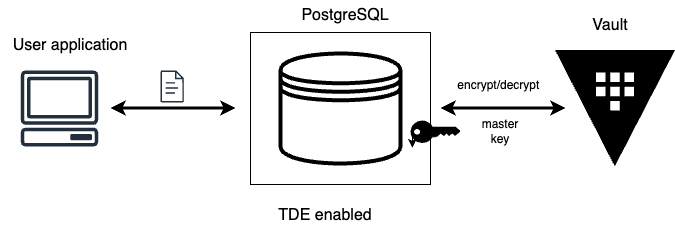
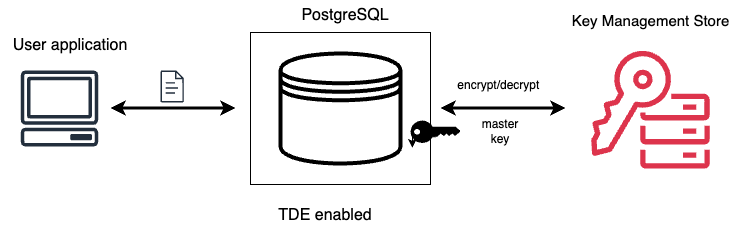
PG-1241 Documented KMIP integration and setup (#368)
PG-1241 Documented KMIP integration and setup

 modified:   documentation/docs/_images/tde-flow.png
        modified:   documentation/docs/setup.md
        modified:   documentation/docs/tde.md

diff --git a/documentation/docs/setup.md b/documentation/docs/setup.md
@@ -4,7 +4,7 @@
 
 Load the `pg_tde` at the start time. The extension requires additional shared memory; therefore,  add the `pg_tde` value for the `shared_preload_libraries` parameter and restart the `postgresql` instance.
 
-1. Use the [ALTER SYSTEM](https://www.postgresql.org/docs/current/sql-altersystem.html) command from `psql` terminal to modify the `shared_preload_libraries` parameter.
+1. Use the [ALTER SYSTEM](https://www.postgresql.org/docs/current/sql-altersystem.html) command from `psql` terminal to modify the `shared_preload_libraries` parameter. This requires superuser privileges. 
 
     ```
     ALTER SYSTEM SET shared_preload_libraries = 'pg_tde';
@@ -14,14 +14,14 @@ Load the `pg_tde` at the start time. The extension requires additional shared me
 
     * On Debian and Ubuntu:    
 
-       ```{.bash data-prompt="$"}
-       $ sudo systemctl restart postgresql.service
+       ```sh
+       sudo systemctl restart postgresql.service
        ```
     
     * On RHEL and derivatives
 
-       ```{.bash data-prompt="$"}
-       $ sudo systemctl restart postgresql-17
+       ```sh
+       sudo systemctl restart postgresql-17
        ```
 
 3. Create the extension using the [CREATE EXTENSION](https://www.postgresql.org/docs/current/sql-createextension.html) command. You must have the privileges of a superuser or a database owner to use this command. Connect to `psql` as a superuser for a database and run the following command:
@@ -36,7 +36,7 @@ Load the `pg_tde` at the start time. The extension requires additional shared me
 
         You can have the `pg_tde` extension automatically enabled for every newly created database. Modify the template `template1` database as follows: 
 
-        ```
+        ```sh
         psql -d template1 -c 'CREATE EXTENSION pg_tde;'
         ```
 
@@ -44,65 +44,95 @@ Load the `pg_tde` at the start time. The extension requires additional shared me
 
 1. Set up a key provider for the database where you have enabled the extension.
 
-    === "With HashiCorp Vault"
+    === "With KMIP server"
+
+        Make sure you have obtained the root certificate for the KMIP server and the keypair for the client. The client key needs permissions to create / read keys on the server. Find the [configuration guidelines for the HashiCorp Vault Enterprise KMIP Secrets Engine](https://developer.hashicorp.com/vault/tutorials/enterprise/kmip-engine).
+        
+        For testing purposes, you can use the PyKMIP server which enables you to set up required certificates. To use a real KMIP server, make sure to obtain the valid certificates issued by the key management appliance. 
+
+        ```
+        SELECT pg_tde_add_key_provider_kmip('provider-name','kmip-IP', 5696, '/path_to/server_certificate.pem', '/path_to/client_key.pem');
+        ```
+
+        where:
+
+        * `provider-name` is the name of the provider. You can specify any name, it's for you to identify the provider.
+        * `kmip-IP` is the IP address of a domain name of the KMIP server
+        * `port` is the port to communicate with the KMIP server. Typically used port is 5696.
+        * `server-certificate` is the path to the certificate file for the KMIP server.
+        * `client key` is the path to the client key.
+
+        <i warning>:material-information: Warning:</i> This example is for testing purposes only:
 
         The Vault server setup is out of scope of this document.
 
         ```
-        SELECT pg_tde_add_key_provider_vault_v2('provider-name',:'secret_token','url','mount','ca_path');
+        SELECT pg_tde_add_key_provider_kmip('kmip','127.0.0.1', 5696, '/tmp/server_certificate.pem', '/tmp/client_key_jane_doe.pem');
+        ```
+
+    === "With HashiCorp Vault"
+
+        The Vault server setup is out of scope of this document.
+
+        ```sql
+        SELECT pg_tde_add_key_provider_vault_v2('provider-name','root_token','url','mount','ca_path');
         ``` 
 
         where: 
 
         * `url` is the URL of the Vault server
         * `mount` is the mount point where the keyring should store the keys
-        * `secret_token` is an access token with read and write access to the above mount point
+        * `root_token` is an access token with read and write access to the above mount point
         * [optional] `ca_path` is the path of the CA file used for SSL verification
 
+        <i warning>:material-information: Warning:</i> This example is for testing purposes only:
 
-    === "With keyring file"
+	    ```
+	    SELECT pg_tde_add_key_provider_file_vault_v2('my-vault','https://vault.example.com','secret/data','hvs.zPuyktykA...example...ewUEnIRVaKoBzs2', NULL);
+	    ```
+
+    === "With a keyring file"
 
         This setup is intended for development and stores the keys unencrypted in the specified data file.    
 
-        ```
+        ```sql
         SELECT pg_tde_add_key_provider_file('provider-name','/path/to/the/keyring/data.file');
         ```
 
-	<i warning>:material-information: Warning:</i> This example is for testing purposes only:
+	    <i warning>:material-information: Warning:</i> This example is for testing purposes only:
 
-	```
-	SELECT pg_tde_add_key_provider_file('file-vault','/tmp/pg_tde_test_local_keyring.per');
-	```
+	    ```sql
+	    SELECT pg_tde_add_key_provider_file('file-keyring','/tmp/pg_tde_test_local_keyring.per');
+	    ```
        
        
 2. Add a principal key
 
-    ```
+    ```sql
     SELECT pg_tde_set_principal_key('name-of-the-principal-key', 'provider-name');
     ```
 
     <i warning>:material-information: Warning:</i> This example is for testing purposes only:
 
-    ```
+    ```sql
     SELECT pg_tde_set_principal_key('test-db-master-key','file-vault');
     ```
 
     The key is auto-generated.
 
+
    <i info>:material-information: Info:</i> The key provider configuration is stored in the database catalog in an unencrypted table. See [how to use external reference to parameters](external-parameters.md) to add an extra security layer to your setup.
 
 
-## WAL encryption configuration (tech preview)
+## WAL encryption configuration
 
-After you [enabled `pg_tde`](#enable-extension) and started the Percona Server for PostgreSQL, a principal key and internal keys for WAL encryption are created. They are stored in the data directory so that after WAL encryption is enabled, any process that requires access to WAL (a recovery or a checkpointer) can use them for decryption.
+After you [enabled `pg_tde`](#enable-extension) and started the Percona Server for PostgreSQL, a principal key and a keyring for WAL are created. Now you need to instruct `pg_tde ` to encrypt WAL files by configuring WAL encryption. 
 
-Now you need to instruct `pg_tde ` to encrypt WAL files by configuring WAL encryption. Here's how to do it:
+Here's how to do it:
 
-### Enable WAL level encryption
+1. Enable WAL level encryption using the `ALTER SYSTEM SET` command. You need the privileges of the superuser to run this command:
 
-1.  Use the `ALTER SYSTEM SET` command. You need the privileges of the superuser to run this command:
-
-    ```
+    ```sql
     ALTER SYSTEM set pg_tde.wal_encrypt = on;
     ```
 
@@ -110,29 +140,23 @@ Now you need to instruct `pg_tde ` to encrypt WAL files by configuring WAL encry
 
     * On Debian and Ubuntu:    
 
-       ```{.bash data-prompt="$"}
-       $ sudo systemctl restart postgresql.service
+       ```sh
+       sudo systemctl restart postgresql.service
        ```
     
     * On RHEL and derivatives
 
-       ```{.bash data-prompt="$"}
-       $ sudo systemctl restart postgresql-17
+       ```sh
+       sudo systemctl restart postgresql-17
        ```
 
-On the server start 
+3. We highly recommend you to create your own keyring and rotate the principal key. This is because the default principal key is created from the local keyfile and is stored unencrypted. 
 
-### Rotate the principal key
-
-We highly recommend you to create your own keyring and rotate the principal key. This is because the default principal key is created from the local keyfile and is stored unencrypted. 
-
-Rotating the principal key means re-encrypting internal keys used for WAL encryption with the new principal key. This process doesn't stop the database operation meaning that reads and writes can take place as usual during key rotation. 
-
-1. Set up the key provider for WAL encryption
+    Set up the key provider for WAL encryption
 
     === "With HashiCorp Vault"
     
-        ```
+        ```sql
         SELECT pg_tde_add_key_provider_vault_v2('PG_TDE_GLOBAL','provider-name',:'secret_token','url','mount','ca_path');
         ``` 
 
@@ -150,32 +174,17 @@ Rotating the principal key means re-encrypting internal keys used for WAL encryp
 
         This setup is intended for development and stores the keys unencrypted in the specified data file.    
 
-        ```
+        ```sql
         SELECT pg_tde_add_key_provider_file('provider-name','/path/to/the/keyring/data.file');
         ```
 
-2. Rotate the principal key. Don't forget to specify the `PG_TDE_GLOBAL` constant to rotate only the principal key for WAL.
+4. Rotate the principal key. Don't forget to specify the `PG_TDE_GLOBAL` constant to rotate only the principal key for WAL.
 
-    ```
+    ```sql
     SELECT pg_tde_rotate_principal_key('PG_TDE_GLOBAL', 'new-principal-key', 'provider-name');
     ```
 
-    Now all WAL files are encrypted for both encrypted and unencrypted tables. 
-   
-3. Verify the encryption by checking the `pg_tde.wal_encrypt` GUC (Grand Unified Configuration) parameter as follows: 
-
-    ```
-    SELECT name, setting FROM pg_settings WHERE name = 'pg_tde.wal_encrypt';
-    ```
-
-    ??? example "Sample output"
-
-        ```{.text .no-copy}
-
-                name        | setting
-        --------------------+---------
-         pg_tde.wal_encrypt | on
-        ```
+Now all WAL files are encrypted for both encrypted and unencrypted tables.
 
 ## Next steps
 

diff --git a/documentation/docs/tde.md b/documentation/docs/tde.md
@@ -6,10 +6,13 @@ Transparent Data Encryption is a technology to protect data at rest. The encrypt
 
 To encrypt the data, two types of keys are used:
 
-* Table encryption keys (TEK) to encrypt user data. These keys are stored internally, near the data that they encrypt.
-* The principal key to encrypt table keys. It is kept separately from the table keys and is managed externally. 
+* Internal encryption keys to encrypt user data. They are stored internally, near the data that they encrypt.
+* The principal key to encrypt database keys. It is kept separately from the database keys and is managed externally in the key management store. 
 
-`pg_tde` is integrated with HashiCorp Vault server to store and manage principal keys. Only the back end KV Secrets Engine - Version 2 (API) is supported.
+You have the following options to store and manage principal keys externally:
+
+* Use the HashiCorp Vault server. Only the back end KV Secrets Engine - Version 2 (API) is supported.
+* Use the KMIP-compatible server. `pg_tde` has been tested with the [PyKMIP](https://pykmip.readthedocs.io/en/latest/server.html) server and [the HashiCorp Vault Enterprise KMIP Secrets Engine](https://www.vaultproject.io/docs/secrets/kmip).
 
 The encryption process is the following:
 
@@ -17,7 +20,7 @@ The encryption process is the following:
 
 When a user creates an encrypted table using `pg_tde`, a new random key is generated for that table using the AES128 (AES-ECB) cipher algorithm. This key is used to encrypt all data the user inserts in that table. Eventually the encrypted data gets stored in the underlying storage. 
 
-The table itself is encrypted using the principal key. The principal key is stored externally in the Vault key management store. 
+The table itself is encrypted using the principal key. The principal key is stored externally in the key management store. 
 
 Similarly when the user queries the encrypted table, the principal key is retrieved from the key store to decrypt the table. Then the same unique internal key for that table is used to decrypt the data, and unencrypted data gets returned to the user. So, effectively, every TDE table has a unique key, and each table key is encrypted using the principal key.
 

diff --git a/documentation/docs/functions.md b/documentation/docs/functions.md
@@ -21,7 +21,7 @@ Creates a new key provider for the database using a remote HashiCorp Vault serve
 The specified access parameters require permission to read and write keys at the location.
 
 ```
-SELECT pg_tde_add_key_provider_vault_v2('provider-name',:'secret_token','url','mount','ca_path');
+SELECT pg_tde_add_key_provider_vault_v2('provider-name','secret_token','url','mount','ca_path');
 ```
 
 where:
@@ -32,6 +32,24 @@ where:
 * [optional] `ca_path` is the path of the CA file used for SSL verification
 
 All parameters can be either strings, or JSON objects [referencing remote parameters](external-parameters.md).
+
+## pg_tde_add_key_provider_kmip
+
+Creates a new key provider for the database using a remote KMIP server.
+
+The specified access parameters require permission to read and write keys at the server.
+
+```
+SELECT pg_tde_add_key_provider_kmip('provider-name','kmip-IP', 5696, '/path_to/server_certificate.pem', '/path_to/client_key.pem');
+```
+
+where:
+
+* `provider-name` is the name of the provider. You can specify any name, it's for you to identify the provider.
+* `kmip-IP` is the IP address of a domain name of the KMIP server
+* The port to communicate with the KMIP server. The default port is `5696`.
+* `server-certificate` is the path to the certificate file for the KMIP server.
+* `client key` is the path to the client key.
 
 ## pg_tde_set_principal_key
 
